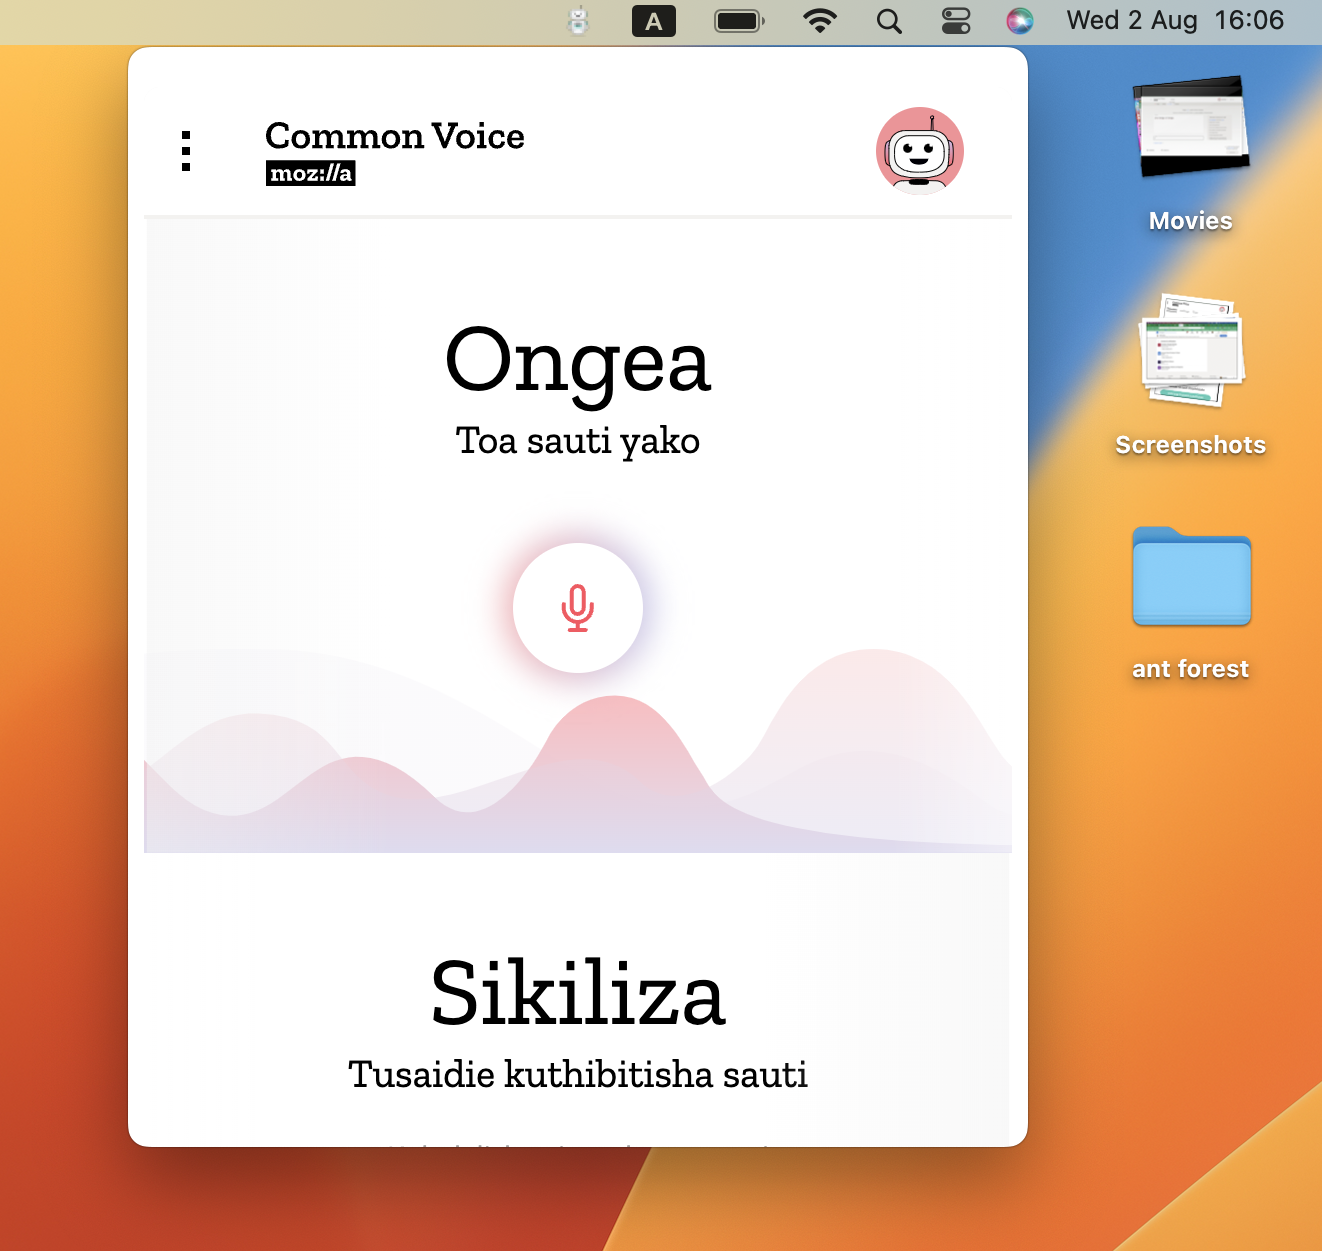
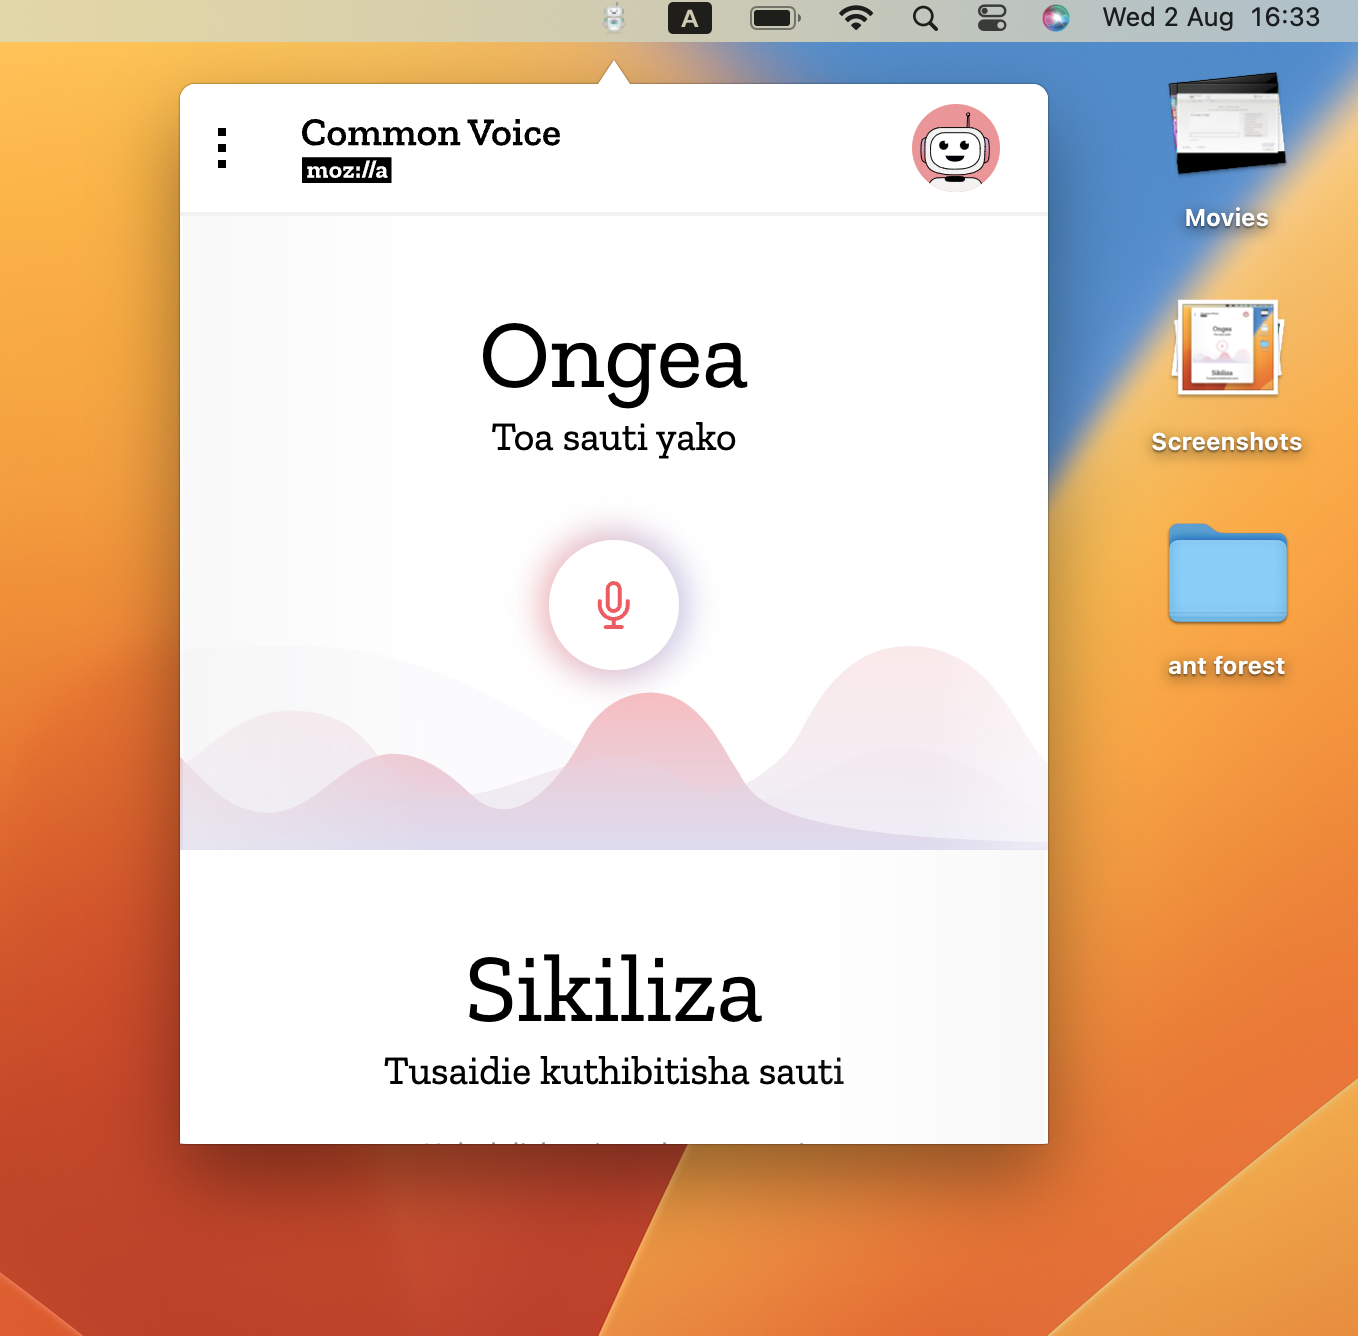
arrow on the menubar

Changed region(s): [[0.0, 0.0, 1.0, 1.0], [0.7753, 0.8106, 1.0, 1.0], [0.0, 0.9353, 0.062, 1.0]]

diff --git a/app.js b/app.js
@@ -13,6 +13,7 @@ const mb = menubar({
         },
         width: 450,
         height: 550,
+        transparent: true,
       },
       showOnAllWorkspaces: true,
       preloadWindow: true,
